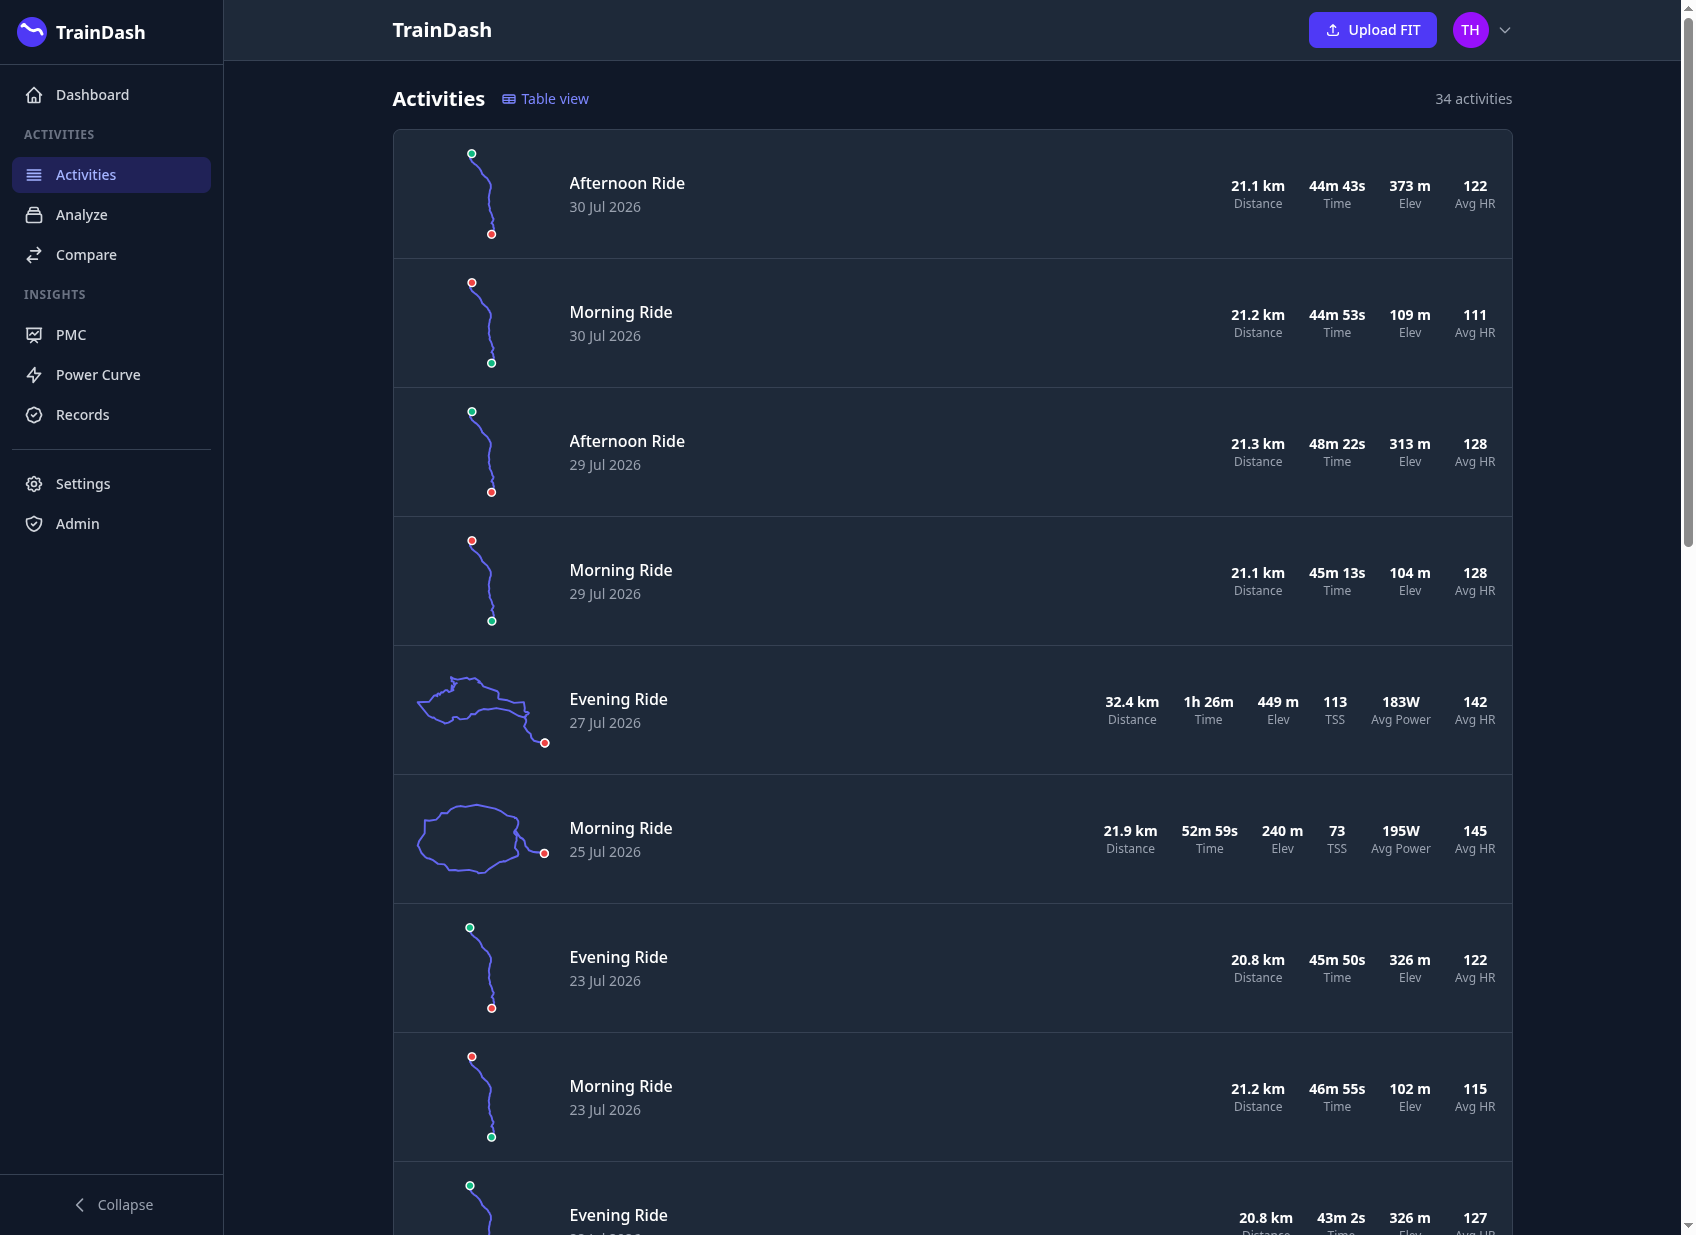
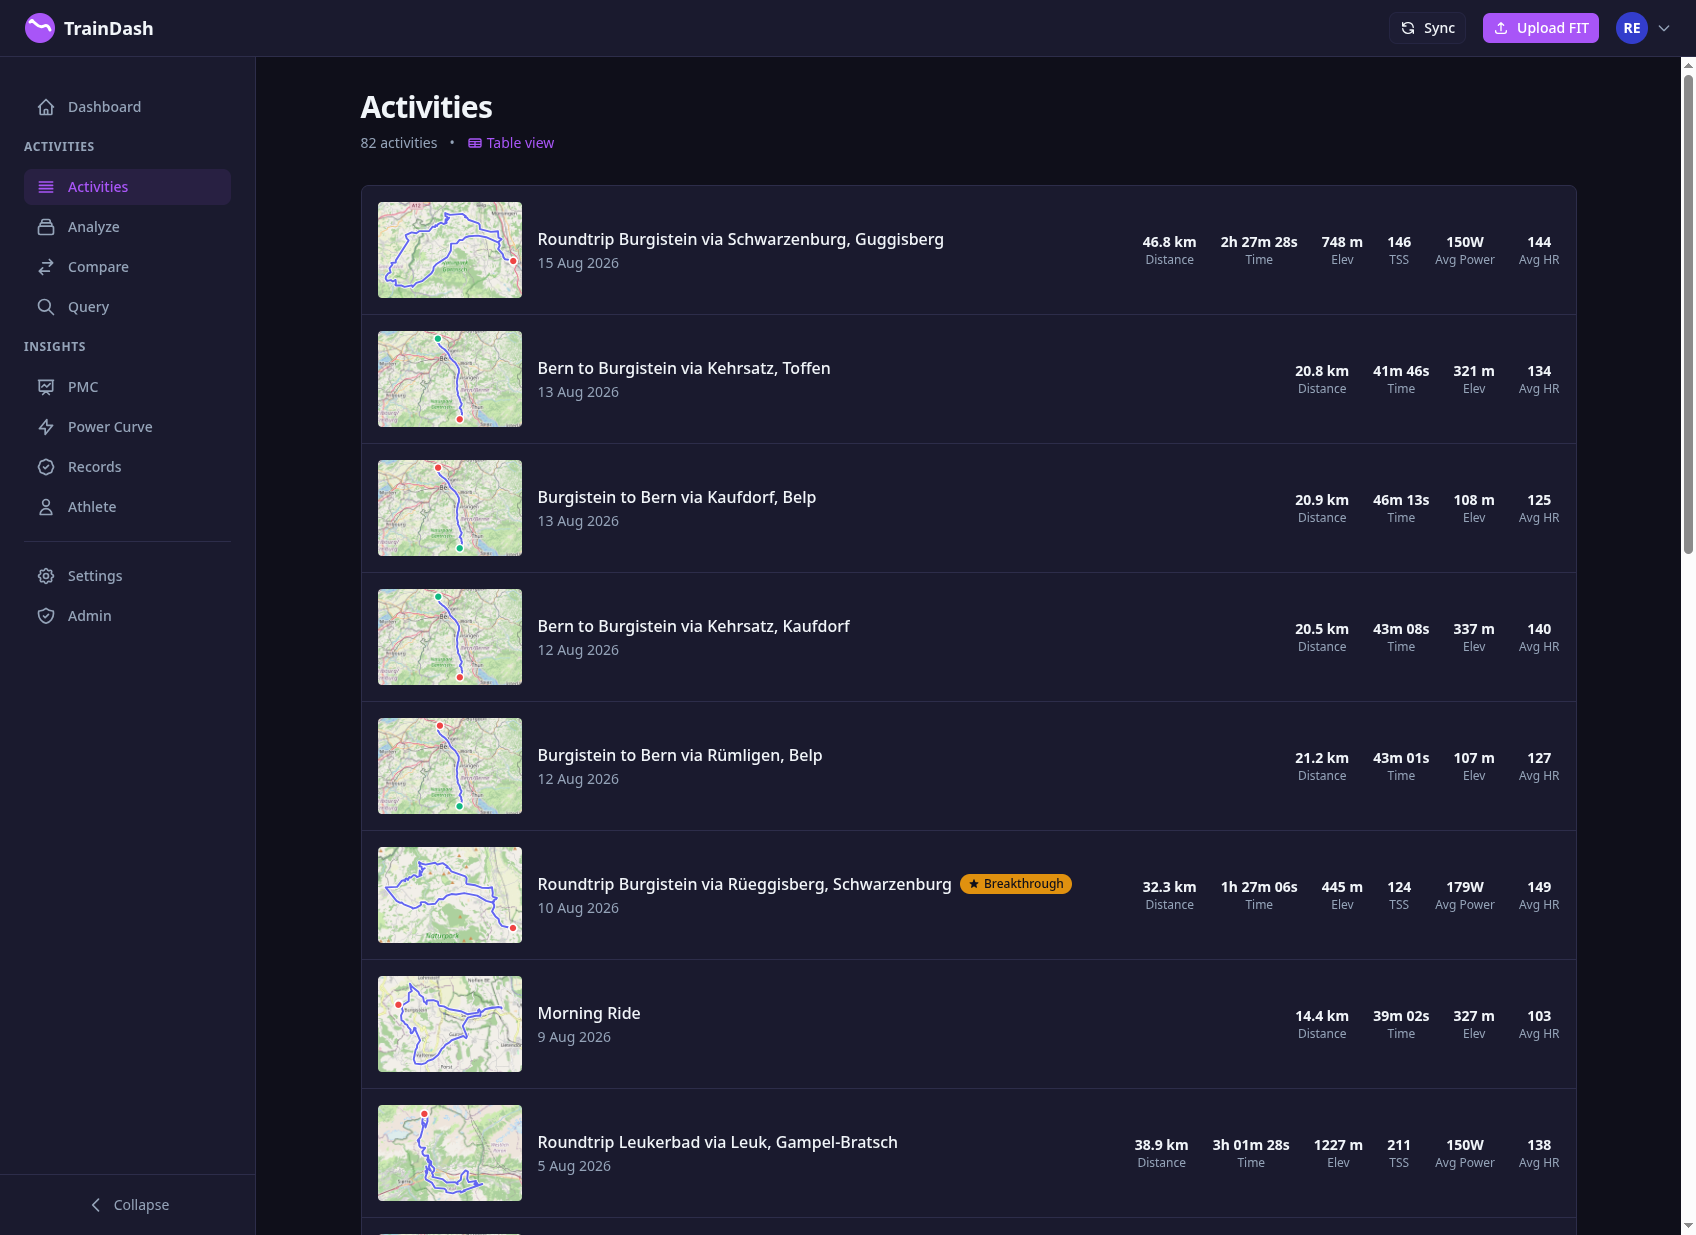
docs: update screenshots and documentation
- Update all screenshots to reflect current UI (Midnight theme)
- Add Settings screenshot showcasing map tile style picker
- Add Athlete page screenshot
- Update README: add Settings section, map tile styles feature
- Update CONTEXT.md: add Theme and Map Tile Style preferences
- Update getting-started.md: add preferences customization section

diff --git a/README.md b/README.md
@@ -33,10 +33,16 @@ Self-hosted fitness analytics for cyclists and endurance athletes. Analyze your 
 - Lifetime PRs (longest ride, fastest segments, max power, biggest climb)
 - Per-route PRs with automatic route matching via GPS similarity
 
+**Settings & Preferences**
+- Selectable map tile styles (OpenStreetMap, Positron, Dark Matter, Voyager)
+- Light/Dark/Midnight themes
+- Metric/Imperial unit preferences
+- HR-derived power estimation for activities without power meters
+
 **Multi-User**
 - Isolated data per user
 - Admin panel for user management
-- Metric/Imperial unit preferences
+- OAuth login (Google, GitHub)
 
 ## Screenshots
 
@@ -72,6 +78,13 @@ Self-hosted fitness analytics for cyclists and endurance athletes. Analyze your 
 <summary>Records</summary>
 
 ![Records](docs/images/records.png)
+
+</details>
+
+<details>
+<summary>Settings</summary>
+
+![Settings](docs/images/settings.png)
 
 </details>
 

diff --git a/docs/getting-started.md b/docs/getting-started.md
@@ -120,7 +120,15 @@ For automatic syncing, go to **Settings > Integrations**:
 - **Power Curve** — See your best power outputs at each duration
 - **Records** — View lifetime PRs and per-route PRs
 
-### 5. Create Additional Users (Admin)
+### 5. Customize Preferences
+
+Go to **Settings** to personalize your experience:
+
+- **Theme** — Light, Dark, or Midnight (or follow system)
+- **Unit System** — Metric (km, m) or Imperial (mi, ft)
+- **Map Style** — OpenStreetMap, Positron, Dark Matter, or Voyager
+
+### 6. Create Additional Users (Admin)
 
 Go to **Admin > Users** to create accounts for other users. Each user has isolated data.
 

diff --git a/CONTEXT.md b/CONTEXT.md
@@ -27,6 +27,8 @@ A User with `is_admin = true`. Admins can create accounts, reset passwords, and 
 Per-user display settings stored on the User record. Currently includes:
 
 - **Unit System** — either *Metric* (km, m, km/h) or *Imperial* (mi, ft, mph). Affects all distance, elevation, and speed displays throughout the app. Default: Metric.
+- **Theme** — Light (Latte), Dark (Mocha), or Midnight. Can also follow system preference.
+- **Map Tile Style** — OpenStreetMap (colorful), Positron (light minimal), Dark Matter (dark), or Voyager (light with colors). Affects all maps in the app. Default: OpenStreetMap.
 
 ## Integration
 
